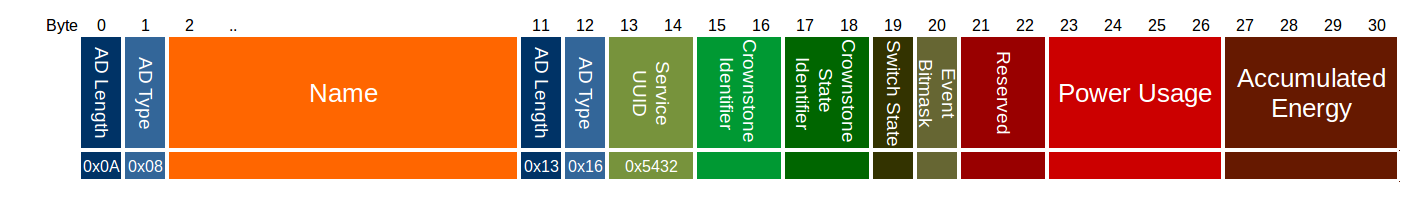
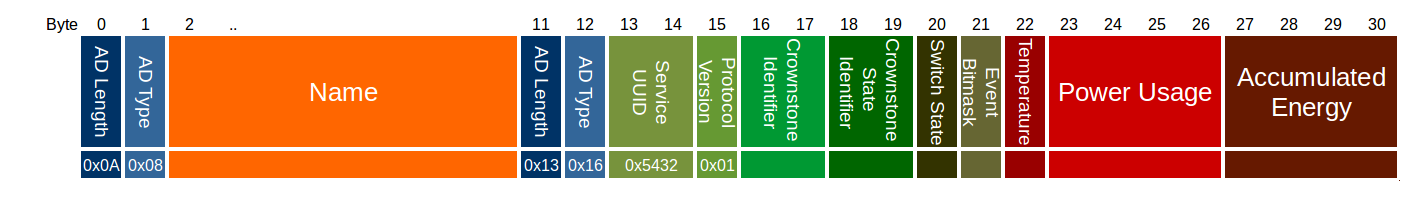
updated service data, added protocol version, added temperature, changed PROTOCOL.md updated protocol version to 0.4.3

diff --git a/include/ble/cs_ServiceData.h b/include/ble/cs_ServiceData.h
@@ -11,6 +11,8 @@
 
 #include <cstring>
 
+#define SERVICE_DATA_PROTOCOL_VERSION 1
+
 class ServiceData : EventListener {
 
 public:
@@ -64,13 +66,13 @@ private:
 
 	union {
 		struct __attribute__((packed)) {
+			uint8_t protocolVersion;
 			uint16_t crownstoneId;
 			uint16_t crownstoneStateId;
 			uint8_t switchState;
 			uint8_t eventBitmask;
-//			uint16_t reserved;
+//			uint8_t reserved;
 			int8_t temperature;
-			int8_t reserved;
 			int32_t powerUsage;
 			int32_t accumulatedEnergy;
 		} _params;

diff --git a/src/ble/cs_ServiceData.cpp b/src/ble/cs_ServiceData.cpp
@@ -14,6 +14,7 @@ ServiceData::ServiceData() : EventListener(EVT_ALL)
 {
 	EventDispatcher::getInstance().addListener(this);
 	memset(_array, 0, sizeof(_array));
+	_params.protocolVersion = SERVICE_DATA_PROTOCOL_VERSION;
 };
 
 void ServiceData::handleEvent(uint16_t evt, void* p_data, uint16_t length) {

diff --git a/PROTOCOL.md b/PROTOCOL.md
@@ -1,4 +1,4 @@
-# Bluenet protocol v0.4.2
+# Bluenet protocol v0.4.3
 -------------------------
 
 # Advertisements and scan response
@@ -47,11 +47,12 @@ This packet contains the state info. It will be encrypted using AES 128.
 
 Type | Name | Length | Description
 --- | --- | --- | ---
+uint 8 | Protocol Version | 1 | Service data protocol version
 uint 16 | Crownstone ID | 2 | ID that identifies this Crownstone.
 uint 16 | Crownstone state ID | 2 | ID of the Crownstone of which the state is shown.
 uint 8 | Switch state | 1 | The state of the switch, 0 - 100 (where 0 is off, 100 is on, dimmed in between).
 uint 8 | Event bitmask | 1 | Shows if the Crownstone has something new to tell.
-uint 8 | Reserved | 2 | Reserved for future use.
+int 8 | Temperature | 1 | Chip temperature (°C)
 int 32 | Power usage | 4 | The power usage at this moment (mW).
 int 32 | Accumulated energy | 4 | The accumulated energy (kWh).
 
